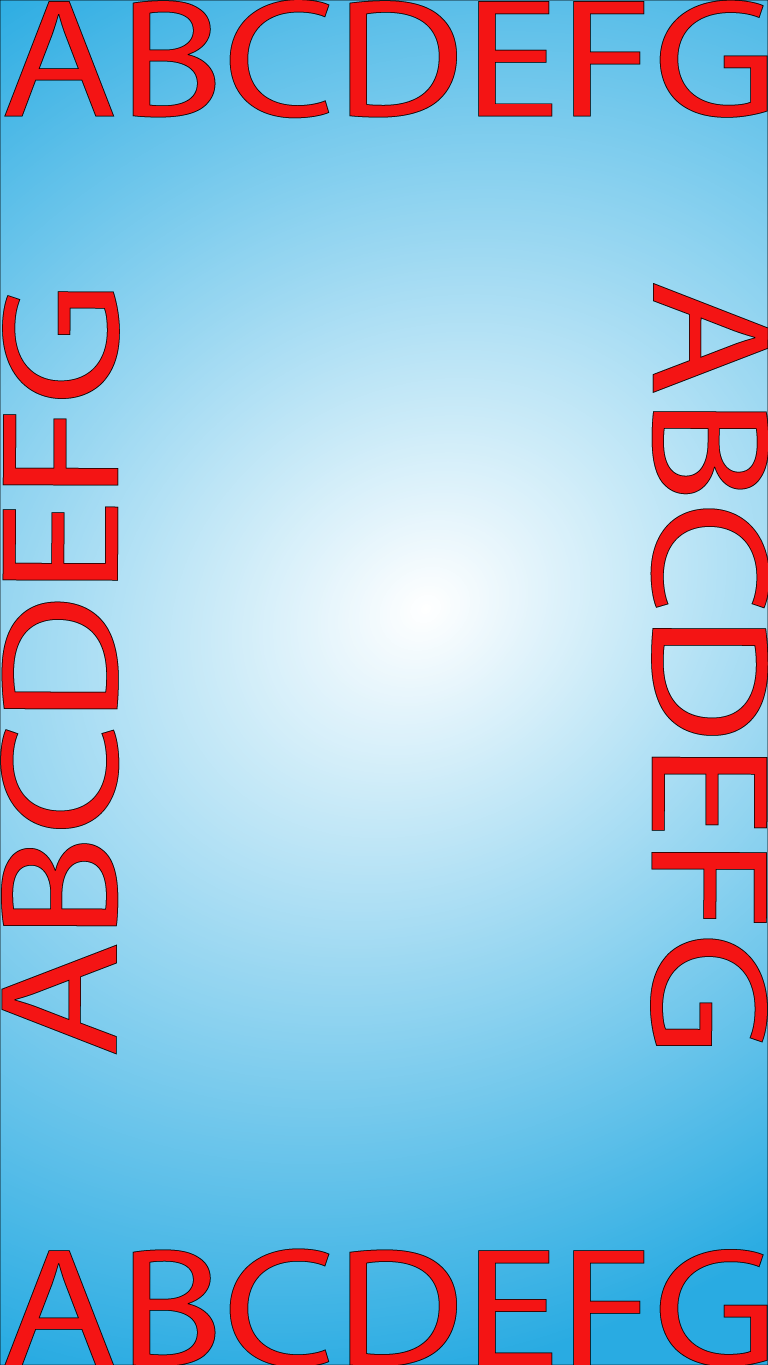
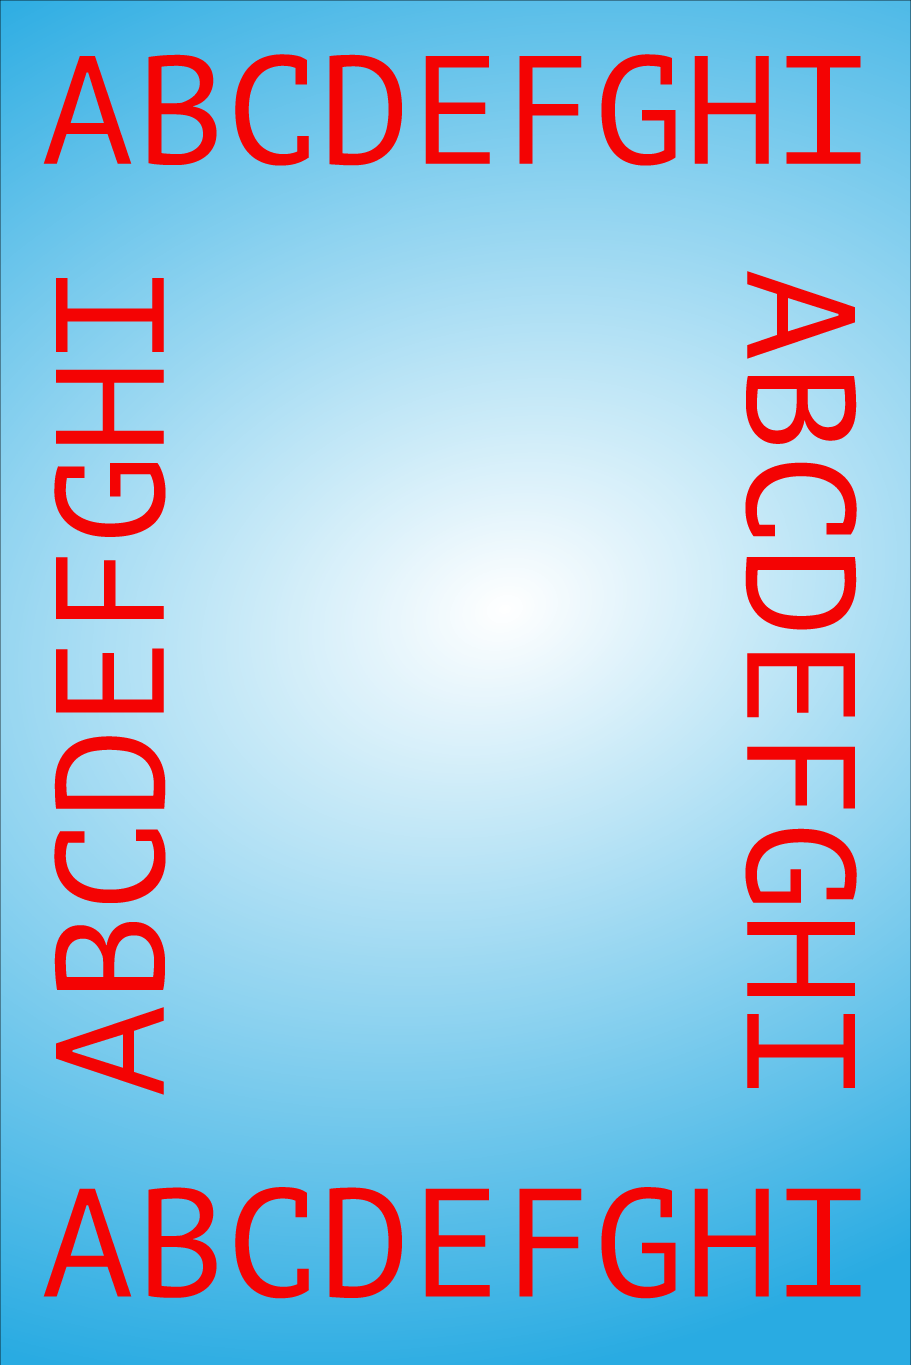
Added some debug stuff. Synced all phone asset files

diff --git a/Classes/TestScene.cpp b/Classes/TestScene.cpp
@@ -33,7 +33,7 @@ bool TestScene::init() {
     Point origin = Director::getInstance()->getVisibleOrigin();
 
     // Create the background
-    pSprBackground = Sprite::create("bg1.png");
+    pSprBackground = Sprite::create("bg_debug.png");
     CCLOG("visibleSize: (%f,%f)", visibleSize.width, visibleSize.height);
     CCLOG("bg size: (%f,%f)", pSprBackground->getContentSize().width, pSprBackground->getContentSize().height);
     CCLOG("origin: (%f, %f)", origin.x, origin.y);
